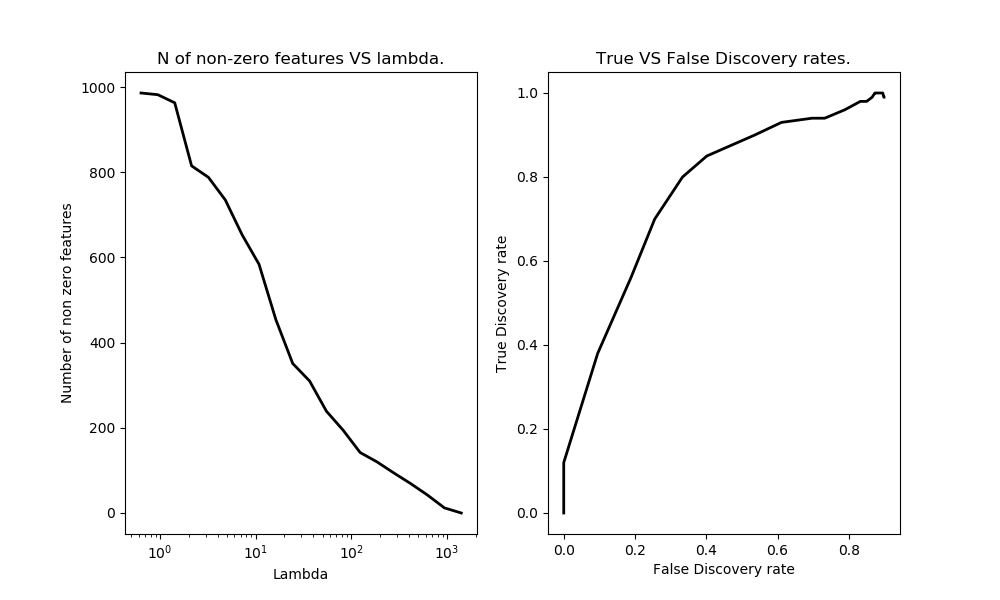
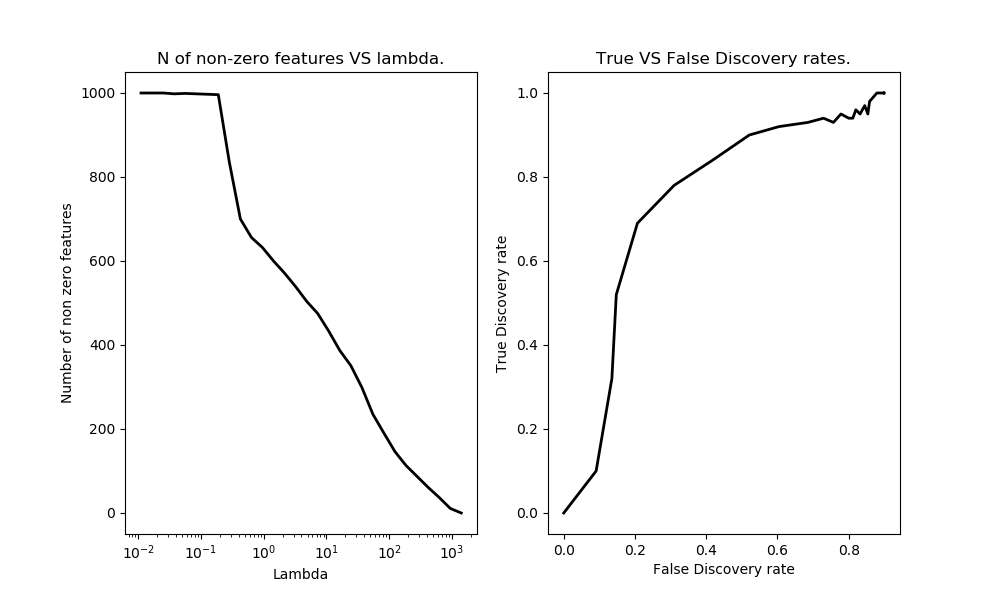
Update code. Update figures.

diff --git a/HW2/HW2_code_solutions/coordinate_descent.py b/HW2/HW2_code_solutions/coordinate_descent.py
@@ -218,7 +218,7 @@ def A4_setup(n=500, d=1000, k=100, sigma=1):
     return x, y, maxLambda, params
 
 
-def A4(nIter=40, tolerance=0.001):
+def A4(nIter=30, tolerance=0.001):
     """Sets the data up as instructed by problem A4 and runs coordinate
     descent Lasso algorithm nIter times, each time decreasing regularization
     parameter lambda by a factor of 1.5.
@@ -231,7 +231,7 @@ def A4(nIter=40, tolerance=0.001):
     ----------
     nIter: `int`, optional
         Number of different regularization parameter iterations to run. Default
-        is 20.
+        is 30.
     tolerance: `float`, optional
         Coordinate descent tolerance, sets convergence criteria (see coordinate_descent).
         Default: 0.001.
@@ -404,7 +404,7 @@ def A5ab(tolerance=0.0001):
     plt.show()
 
 
-def A5cd():
+def A5cd(tolerance=0.0001):
     """Sets the data up as instructed by problem A5 and runs coordinate
     descent Lasso algorithm with regularization value of 30. 
 
@@ -413,9 +413,6 @@ def A5cd():
 
     Parameters
     ----------
-    nIter: `int`, optional
-        Number of different regularization parameter iterations to run. Default
-        is 20.
     tolerance: `float`, optional
         Coordinate descent tolerance, sets convergence criteria (see
         coordinate_descent). Default: 0.001.
@@ -428,7 +425,8 @@ def A5cd():
     lambd = 30
 
     lambdas, numNonZeros, sqrErr = [], [], []
-    w = coordinate_descent(xTrain.values, yTrain.values, lambd, initW=w, convergeFast=False)
+    w = coordinate_descent(xTrain.values, yTrain.values, lambd,
+                           tolerance=tolerance, initW=w, convergeFast=False)
     numNonZeros.append(np.count_nonzero(w))
     lambdas.append(lambd)
 
@@ -441,7 +439,8 @@ def A5cd():
     print("-----------------------------------------")
     idxSorted = np.argsort(w)
     idxNonZeroSorted = np.nonzero(w[idxSorted])
-    for feature, w_i in zip(xTrain.columns[idxSorted][idxNonZeroSorted], w[idxSorted][idxNonZeroSorted]):
+    for feature, w_i in zip(xTrain.columns[idxSorted][idxNonZeroSorted],
+                            w[idxSorted][idxNonZeroSorted]):
         print(f"{feature:25} | {w_i:4.8f}")
 
 
